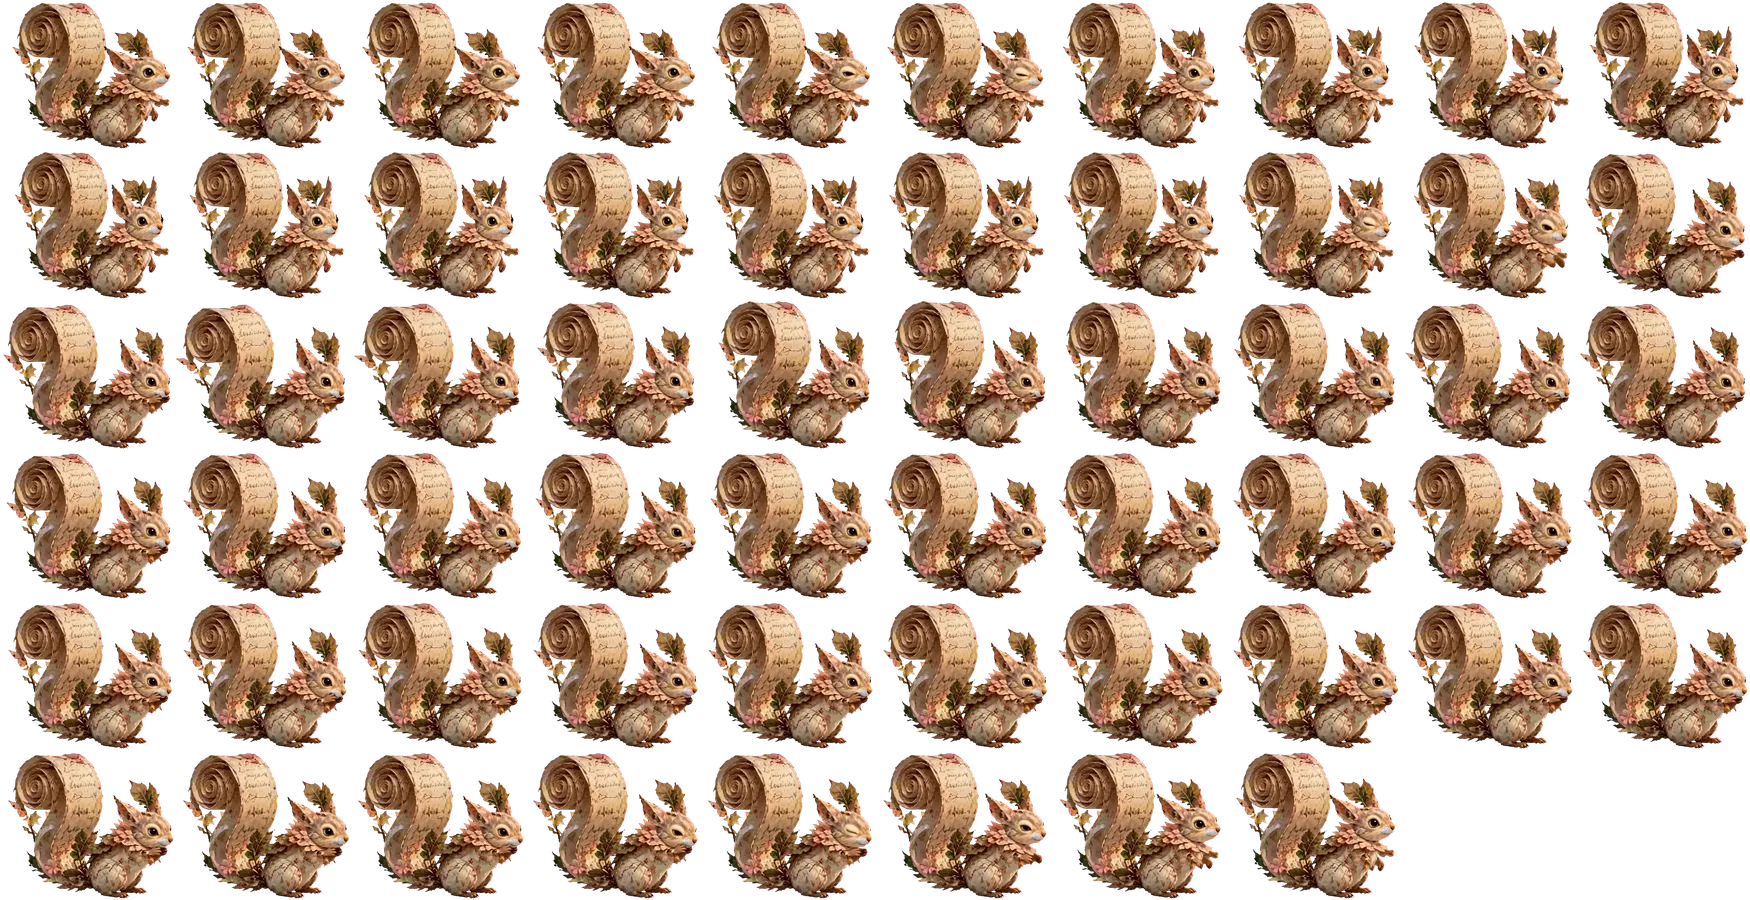
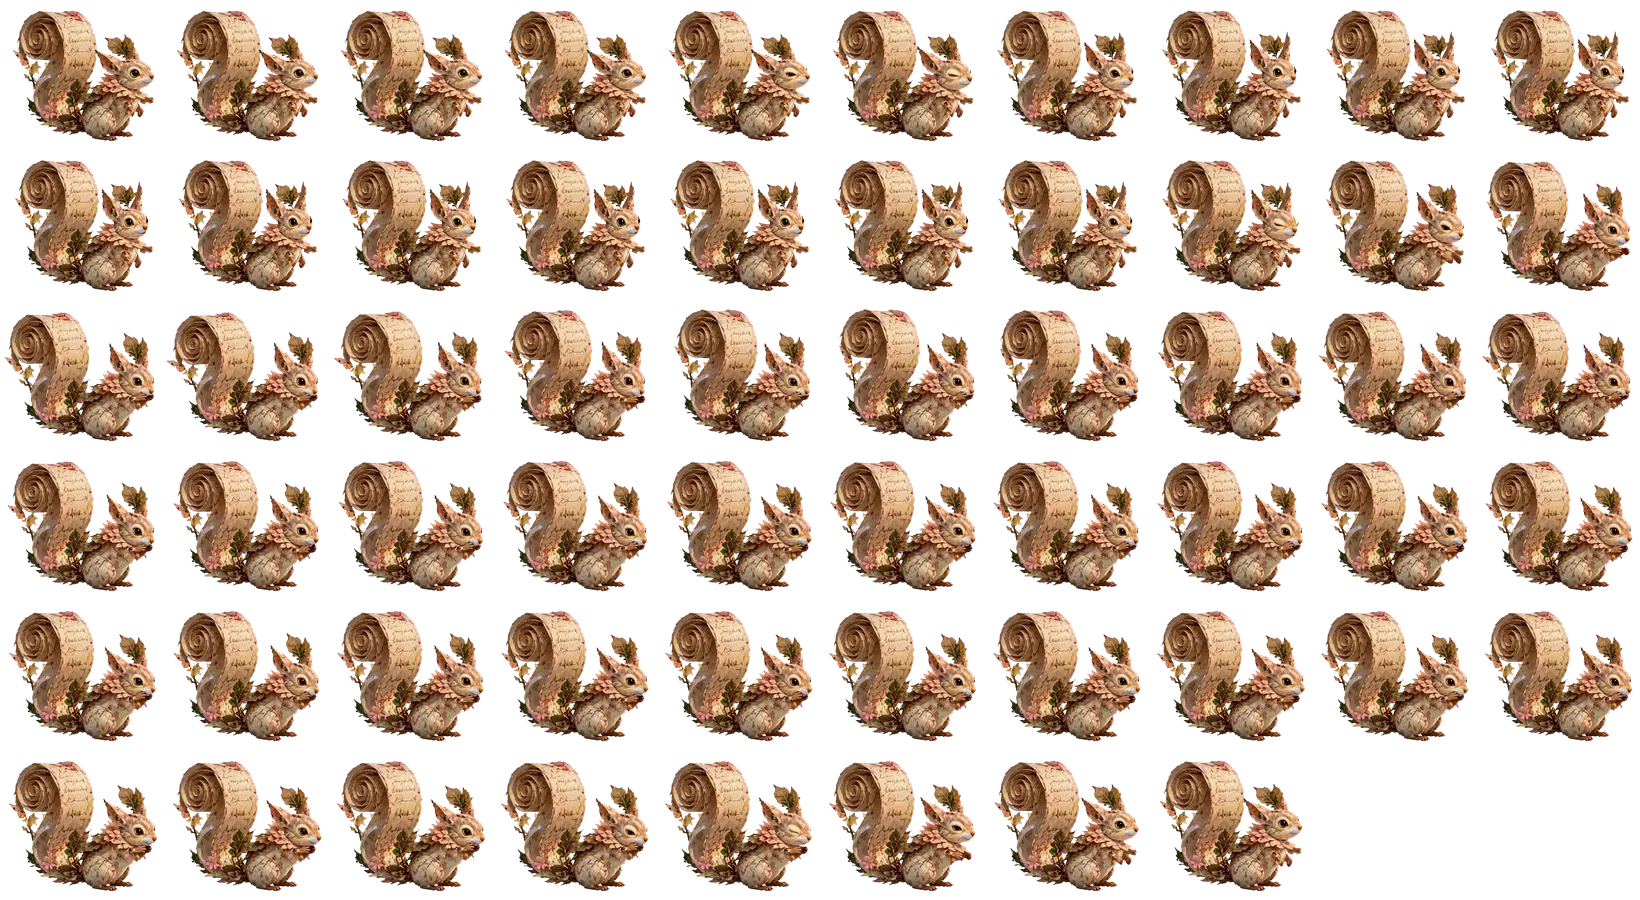
Scrollkeeper folds into a journal again, now from the design-sheet squirrel: its scroll tail unrolls into pages and the book closes into a caramel parchment journal with gold bands standing on the shelf, then unfolds back (one generated clip, both ways, sharing the idle clip's crop)

diff --git a/mobile/src/components/bookhouse/Scrollkeeper.tsx b/mobile/src/components/bookhouse/Scrollkeeper.tsx
@@ -2,29 +2,48 @@ import { useEffect, useState } from 'react';
 import { Image, View } from 'react-native';
 
 // Scrollkeeper, the bookhouse's spirit squirrel (journal paper with a ruff of paper leaves, its
-// tail a scroll), resting on top of the bookcase. It sits and looks about: a generated clip made
-// from the Garden spirits design sheet itself, so its colours are the sheet's, looped (first
-// frame = last). 58 frames, 175 × 150 cells, 10 to a row, 12 fps, painted facing right;
-// `ground` is the row its feet rest on. Folding into a journal on the shelf will come back with
-// a clip made from this squirrel.
+// tail a scroll), resting on top of the bookcase; its clips are generated from the Garden spirits
+// design sheet itself, so its colours are the sheet's. It sits and looks about (IDLE, first frame
+// = last); now and then, when it is back in that first pose, it folds into a journal standing on
+// the shelf (FOLD: its scroll unrolls into pages and the book closes, the paper really folding),
+// stays a book for a while, and unfolds again (FOLD backwards). Both share one crop: 164 × 150
+// cells, 10 to a row, 12 fps, painted facing right; `ground` is the row its feet and the book
+// stand on.
 const IDLE = { source: require('../../../assets/bookhouse/scrollkeeper-idle.webp'), count: 58, rows: 6 };
-const CELL = { w: 175, h: 150, columns: 10, ground: 148, fps: 12 };
+const FOLD = { source: require('../../../assets/bookhouse/scrollkeeper-fold.webp'), count: 62, rows: 7 };
+const CELL = { w: 164, h: 150, columns: 10, ground: 142, fps: 12 };
+const between = (low: number, high: number) => low + Math.random() * (high - low);
+
+type Phase = { clip: 'idle' | 'fold'; frame: number; step: 1 | -1 | 0; until: number };
 
 export function Scrollkeeper({ x, y, height, still }: { x: number; y: number; height: number; still: boolean }) {
   // x, y: where its feet rest (scene units); height: drawn cell height.
-  const [frame, setFrame] = useState(0);
+  const [phase, setPhase] = useState<Phase>({ clip: 'idle', frame: 0, step: 1, until: Date.now() + between(25, 50) * 1000 });
   useEffect(() => {
     if (still) return;
-    const timer = setInterval(() => setFrame(f => (f + 1) % IDLE.count), 1000 / CELL.fps);
+    const timer = setInterval(() => setPhase(p => {
+      const now = Date.now();
+      if (p.clip === 'idle') {
+        const frame = (p.frame + 1) % IDLE.count;
+        // Fold only from its first pose, where the folding clip starts.
+        return frame === 0 && now > p.until ? { clip: 'fold', frame: 0, step: 1, until: 0 } : { ...p, frame };
+      }
+      if (p.step === 0) return now > p.until ? { ...p, step: -1 } : p;
+      const frame = p.frame + p.step;
+      if (frame >= FOLD.count) return { clip: 'fold', frame: FOLD.count - 1, step: 0, until: now + between(15, 40) * 1000 };
+      if (frame < 0) return { clip: 'idle', frame: 0, step: 1, until: now + between(25, 50) * 1000 };
+      return { ...p, frame };
+    }), 1000 / CELL.fps);
     return () => clearInterval(timer);
   }, [still]);
-  const shown = still ? 0 : frame;
+  const sheet = phase.clip === 'idle' ? IDLE : FOLD;
+  const frame = still ? 0 : phase.frame;
   const k = height / CELL.h, w = CELL.w * k;
   return <View pointerEvents="none" accessible={false} testID="bookhouse-scrollkeeper"
     style={{ position: 'absolute', left: x - w / 2, top: y - CELL.ground * k, width: w, height, overflow: 'hidden' }}>
-    <Image source={IDLE.source} resizeMode="stretch" style={{
-      position: 'absolute', width: w * CELL.columns, height: height * IDLE.rows,
-      left: -(shown % CELL.columns) * w, top: -Math.floor(shown / CELL.columns) * height,
+    <Image source={sheet.source} resizeMode="stretch" style={{
+      position: 'absolute', width: w * CELL.columns, height: height * sheet.rows,
+      left: -(frame % CELL.columns) * w, top: -Math.floor(frame / CELL.columns) * height,
     }} />
   </View>;
 }
